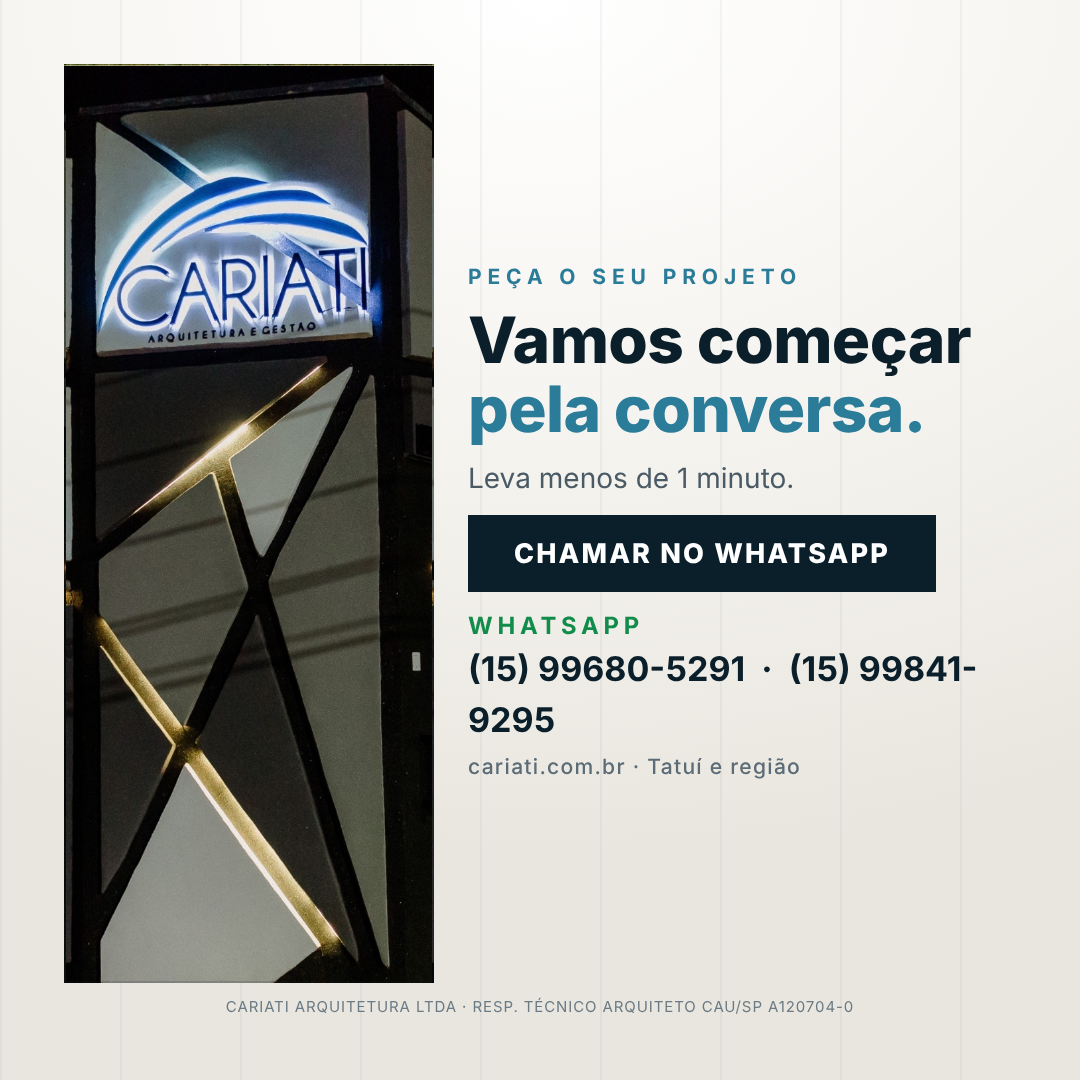
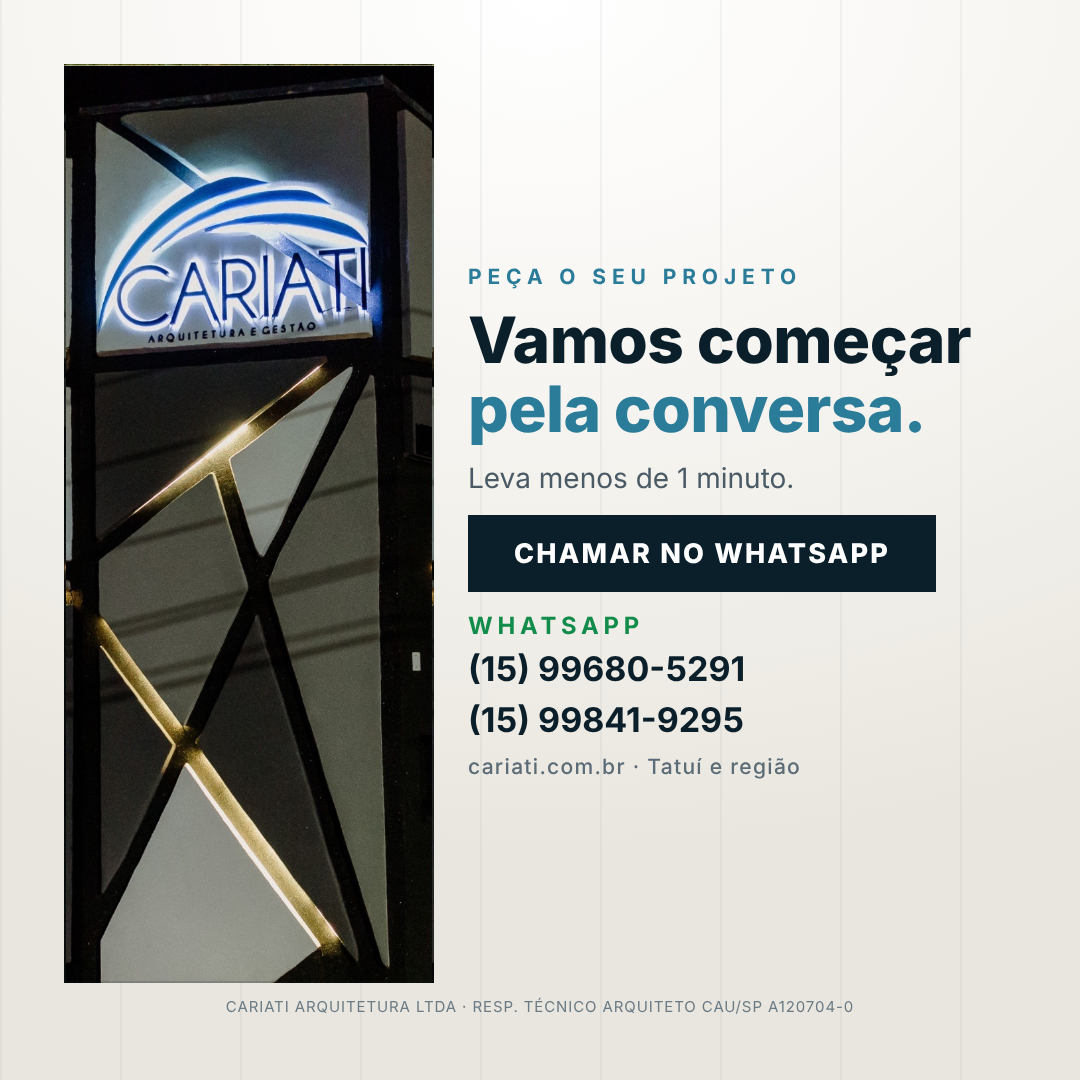
Flyer 04 square: stack phone numbers on two lines
Claude-Session: https://claude.ai/code/session_012W4cPJrLBDcgKi33Cw4yCm

Changed region(s): [[0.4278, 0.6417, 0.7028, 0.7028], [0.7333, 0.6111, 0.9167, 0.6417]]

diff --git a/flyers_cariati/build.py b/flyers_cariati/build.py
@@ -93,7 +93,7 @@ def f3(vert):
 def f4(vert):
     if vert:
         return photo("fachada.jpg",760,"center top")+sp(40)+'<div class="eyebrow z">Peça o seu projeto</div>'+sp(18)+'<h1 class=z>Vamos começar<br><em>pela conversa.</em></h1>'+sp(20)+'<p class="sub z">Leva menos de 1 minuto. Fale com a nossa equipe pelo WhatsApp.</p>'+flex()+'<div class="cta z">Chamar no WhatsApp</div>'+sp(34)+PH+sp(26)+FOOT
-    return f"<div class='z' style='display:flex;gap:34px;flex:1'><div class='photo' style=\"width:370px;background-image:url('assets/fachada.jpg');background-position:center top\"></div><div style='flex:1;display:flex;flex-direction:column;justify-content:center;gap:16px'><div class='eyebrow' style='text-align:left'>Peça o seu projeto</div><h1 style='text-align:left'>Vamos começar <em>pela conversa.</em></h1><p class='sub' style='text-align:left'>Leva menos de 1 minuto.</p><div class='cta' style='align-self:flex-start'>Chamar no WhatsApp</div>{PH.replace('contact z','contact z\" style=\"text-align:left')}</div></div>"+sp(14)+FOOT
+    return f"<div class='z' style='display:flex;gap:34px;flex:1'><div class='photo' style=\"width:370px;background-image:url('assets/fachada.jpg');background-position:center top\"></div><div style='flex:1;display:flex;flex-direction:column;justify-content:center;gap:16px'><div class='eyebrow' style='text-align:left'>Peça o seu projeto</div><h1 style='text-align:left'>Vamos começar <em>pela conversa.</em></h1><p class='sub' style='text-align:left'>Leva menos de 1 minuto.</p><div class='cta' style='align-self:flex-start'>Chamar no WhatsApp</div>{PH.replace('contact z','contact z\" style=\"text-align:left').replace(' &nbsp;·&nbsp; ','<br>')}</div></div>"+sp(14)+FOOT
 FL=[("01_tudo_em_um_so_lugar",f1),("02_400_obras",f2),("03_metodo_ppg",f3),("04_vamos_conversar",f4)]
 import json
 jobs=[]
